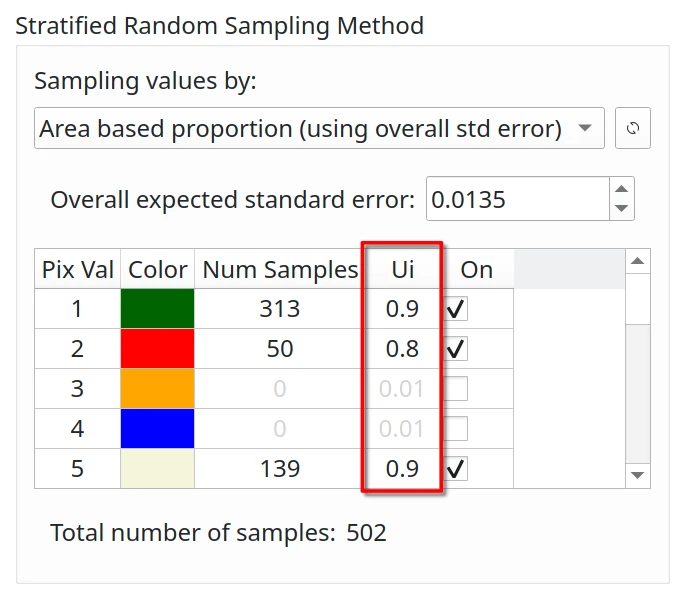
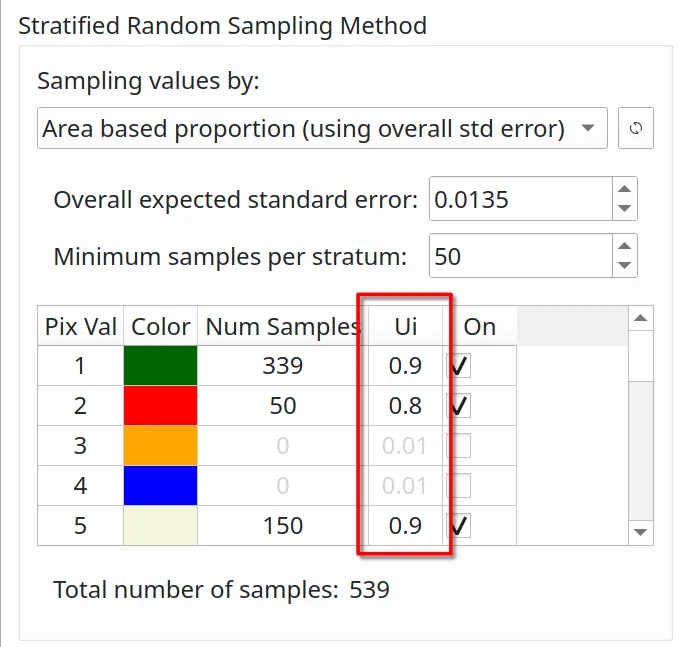
Adding a warning box about the minimum samples in strata for stratified and post-stratified sampling

Changed region(s): [[0.031, 0.0915, 0.9602, 0.9458], [0.0, 0.0, 0.6504, 0.0915], [0.8982, 0.5492, 0.9602, 0.5797]]

diff --git a/gui/sampling_report.py b/gui/sampling_report.py
@@ -370,6 +370,32 @@ class SamplingReport(QDialog, FORM_CLASS):
                     <i>* Samples in no-data or outside</i>
                 """.format(num_samples=self.report["samples"]["samples_not_in_post_stratification"])
 
+        ### warning boxes
+
+        # minimum samples in strata
+        if self.report["general"]["sampling_type"] == "stratified" or (
+                self.report["general"]["sampling_type"] in ["simple", "systematic"] and self.report["general"]["post_stratification_map"]):
+
+            table = self.report["samples"]["thematic_map"] if not self.report["samples"]["post_stratification"] else self.report["samples"]["post_stratification"]
+            min_sample_size = min([num_samples for num_samples in table["num_samples"] if num_samples > 0])
+            if min_sample_size < 30:
+                html += """
+                    <br>
+                    <hr style="border-top: 2px dashed #3b3b3b;">
+                    
+                    <div style="background-color: #fffff3;">
+                        <p style="font-size: 80%; color: #3b3b3b">
+                        <span style="font-weight: bold;">Warning: Check minimum samples in strata</span><br>
+                        Using stratified or post-stratified sampling for map data analysis, land use/land cover 
+                        classification and similar topics, a minimum sample size of 30 (Van Genderen et al., 1978) or 
+                        50 (Stehman & Foody, 2019; Hay, 1979) per evaluated stratum is generally recommended to ensure 
+                        statistical significance. However, determining the optimal minimum sample size requires 
+                        consideration of several factors such as data type, the specific research objectives, and the 
+                        desired level of precision.
+                        </p>
+                    </div>
+                """
+
         html += """
             </body>
         """

diff --git a/docs/sampling-design.md b/docs/sampling-design.md
@@ -32,7 +32,7 @@ Selecting the sampling design is crucial and could be based on the population/da
 your needs. At the moment we have implemented three main sampling designs: simple random, stratified random, and
 systematic sampling and all are probability sampling designs. For example, use simple random for a population without
 strata. Stratified random is commonly employed for sampling within each stratum of the classes of the stratified map.
-And the systematic protocol to have some strata sampled systematically. But also we implemented post-stratification 
+And the systematic protocol to have some strata sampled systematically. But also we implemented post-stratification
 methods for simple random and systematic sampling to ensure that samples randomly generated are only on specific strata.
 
 ## Simple random sampling
@@ -53,7 +53,7 @@ _**Disadvantages**_: Underestimates the less representative classes. Not well di
 
 It is useful for reporting results when strata are of interest and the precision of accuracy and area estimates need to
 be improved. As a result, it is one of the most commonly used. It is used in conjunction with prior knowledge to
-stratify the study area. This design is recommended by Olofsson et al. (2014) as a good practice option for ensuring 
+stratify the study area. This design is recommended by Olofsson et al. (2014) as a good practice option for ensuring
 that rare classes are well represented.
 
 _**Advantages**_: It allows to increase the sample size of the less common classes. It lowers the standard errors of the
@@ -72,11 +72,11 @@ probabilities of inclusion, this makes it difficult to calculate the estimators
 ### Aligned systematic sampling
 
 Distribute the sampling units equally for the entire study area. As long as the first sampling unit is randomly
-selected, we can say that systematic sampling is random. Simplicity is highly attractive to end users. The variance 
+selected, we can say that systematic sampling is random. Simplicity is highly attractive to end users. The variance
 depends on how the error is spatially distributed.
 
 _**Advantages**_: It distributes the sampling units equitably throughout the study area. As long as the first sampling
-unit is randomly selected, we can say that systematic sampling is random. Simplicity is highly attractive to end 
+unit is randomly selected, we can say that systematic sampling is random. Simplicity is highly attractive to end
 users. The variance depends on how the error is spatially distributed.
 
 _**Disadvantages**_: If the errors are located in certain areas of the population, systematic sampling will have a lower
@@ -115,9 +115,12 @@ stratified sampling is recommended. (Methods and Guidance from the Global Forest
 
 ### Sample size in stratified sampling
 
+#### Overall expected standard error
+
 <img src="img/overall_std_error.webp" width="35%" style="margin: auto;display: block;">
 
-For stratified sampling, Cochran (1977) provides the following sample size formula (Cochran, 1977 and Olofsson, et 
+The standard error of the estimated overall accuracy that we would like to achieve. For stratified sampling, Cochran 
+(1977) provides the following sample size formula (Cochran, 1977 and Olofsson, et
 al., 2014)
 
 <img src="img/ecuation_sample_size.webp" width="70%" style="margin: auto;display: block;">
@@ -127,21 +130,33 @@ mapped proportion of the area of class i, and Si is the standard deviation of st
 expected by class i. Since N is usually very large, the second term in the denominator of the above equation can be
 discarded.
 
+#### User's accuracy confidence
+
 <img src="img/user_accuracy.webp" width="35%" style="margin: auto;display: block;">
 
-The user's accuracy (Ui) is the probability that a pixel classified as class i is actually class i. The user's accuracy 
-is a measure of the reliability of the classification, in other words, the user's accuracy is the confidence for map 
+The user's accuracy (Ui) is the probability that a pixel classified as class i is actually class i. The user's accuracy
+is a measure of the reliability of the classification, in other words, the user's accuracy is the confidence for map
 classes. In general, the user's accuracy values are:
 
 - 0.6 - 0.8: for unstable classes
 - 0.8 - 0.95: for stable classes
 
-For example, based on a study from Olofsson et al. (2014) assessing the accuracy of forest change, the user's accuracy 
+For example, based on a study from Olofsson et al. (2014) assessing the accuracy of forest change, the user's accuracy
 values for the following classes could be:
 
 - 0.6 - 0.7: forest gain (very unstable class)
 - 0.7 - 0.8: deforestation (unstable class)
 - 0.8 - 0.9: stable forest (stable class)
 - 0.95: stable non-forest (very stable class)
+
+#### Minimum sample size per stratum
+
+<img src="img/minimum_sampling_per_stratum.webp" width="35%" style="margin: auto;display: block;">
+
+Using stratified or post-stratified sampling for map data analysis, land use/land cover classification and similar 
+topics, a minimum sample size of 30 (Van Genderen et al., 1978) or 50 (Stehman & Foody, 2019; Hay, 1979) per 
+evaluated stratum is generally recommended to ensure statistical significance. However, determining the optimal 
+minimum sample size requires consideration of several factors such as data type, the specific research objectives, 
+and the desired level of precision.
 
 Next >> [Response design](response-design.html)
